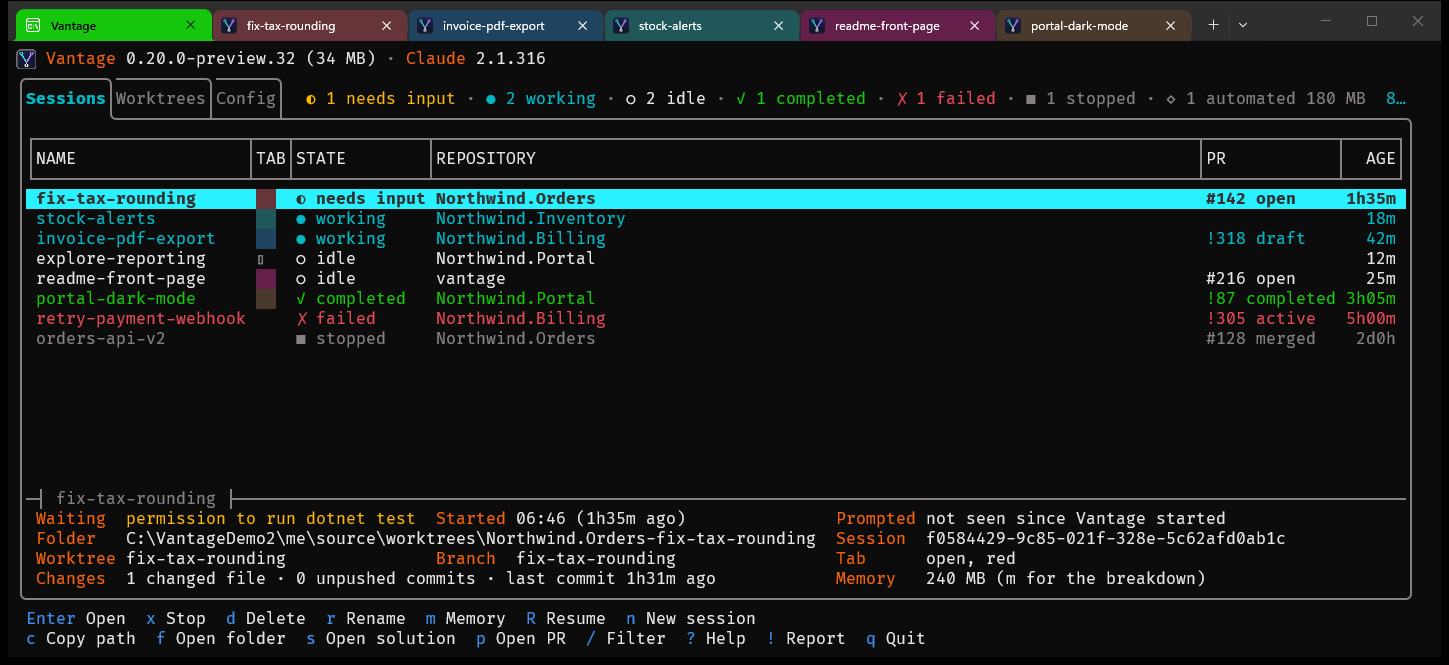
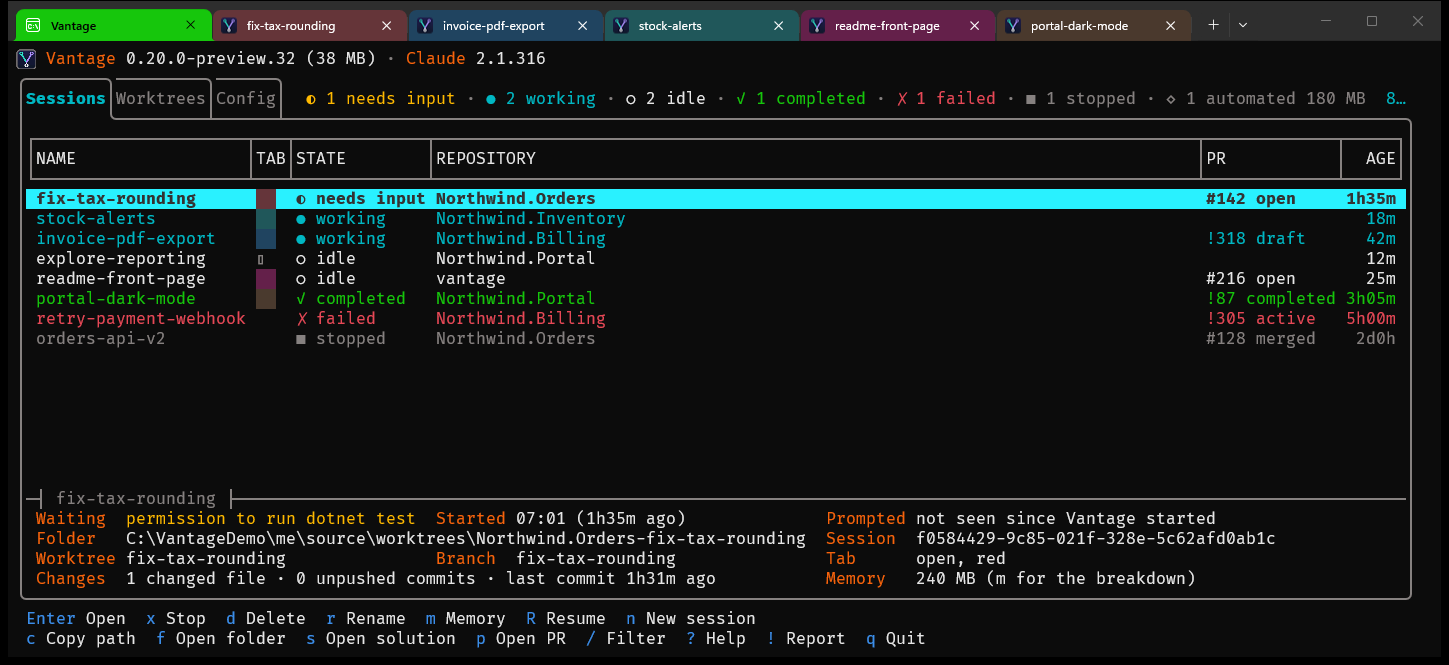
Take the README screenshot from the scene

Changed region(s): [[0.1863, 0.7519, 0.9006, 0.9023]]

diff --git a/openspec/changes/readme-front-page/tasks.md b/openspec/changes/readme-front-page/tasks.md
@@ -39,7 +39,7 @@
 
 ## 6. The script and the images
 
-- [ ] 6.1 Write `tools\New-ReadmeScreenshot.ps1`: refuse under `CLAUDECODE`, check `wt`, git and ffmpeg, build the demo repositories under `-SceneRoot` (default `C:\VantageDemo`) with the made-up author and remotes, open the window with the cleared environment, wait for the marker, capture the PNG, play and capture the GIF, close the window and delete the scene folder; verify a run leaves only `assets\readme\sessions.png` and `assets\readme\new-session.gif` changed and nothing in `%LOCALAPPDATA%\Vantage` or `~\.claude` touched (compare their last-write times before and after)
+- [x] 6.1 Write `tools\New-ReadmeScreenshot.ps1`: clear `NO_COLOR`, `CLAUDECODE`, `CLAUDE_PID` and `CLAUDE_CODE_*` for the window it opens, check `wt`, git and ffmpeg, build the demo repositories under `-SceneRoot` (default `C:\VantageDemo`) with the made-up author and remotes, open the window with the cleared environment, wait for the marker, capture the PNG, play and capture the GIF, close the window and delete the scene folder; verify a run leaves only `assets\readme\sessions.png` and `assets\readme\new-session.gif` changed and nothing in `%LOCALAPPDATA%\Vantage` or `~\.claude` touched (compare their last-write times before and after)
 - [ ] 6.2 Run the script and commit both images; verify by eye that no real repository other than `vantage`, person, organisation or user path appears, and that the GIF is under 2 MB
 
 ## 7. User guide
